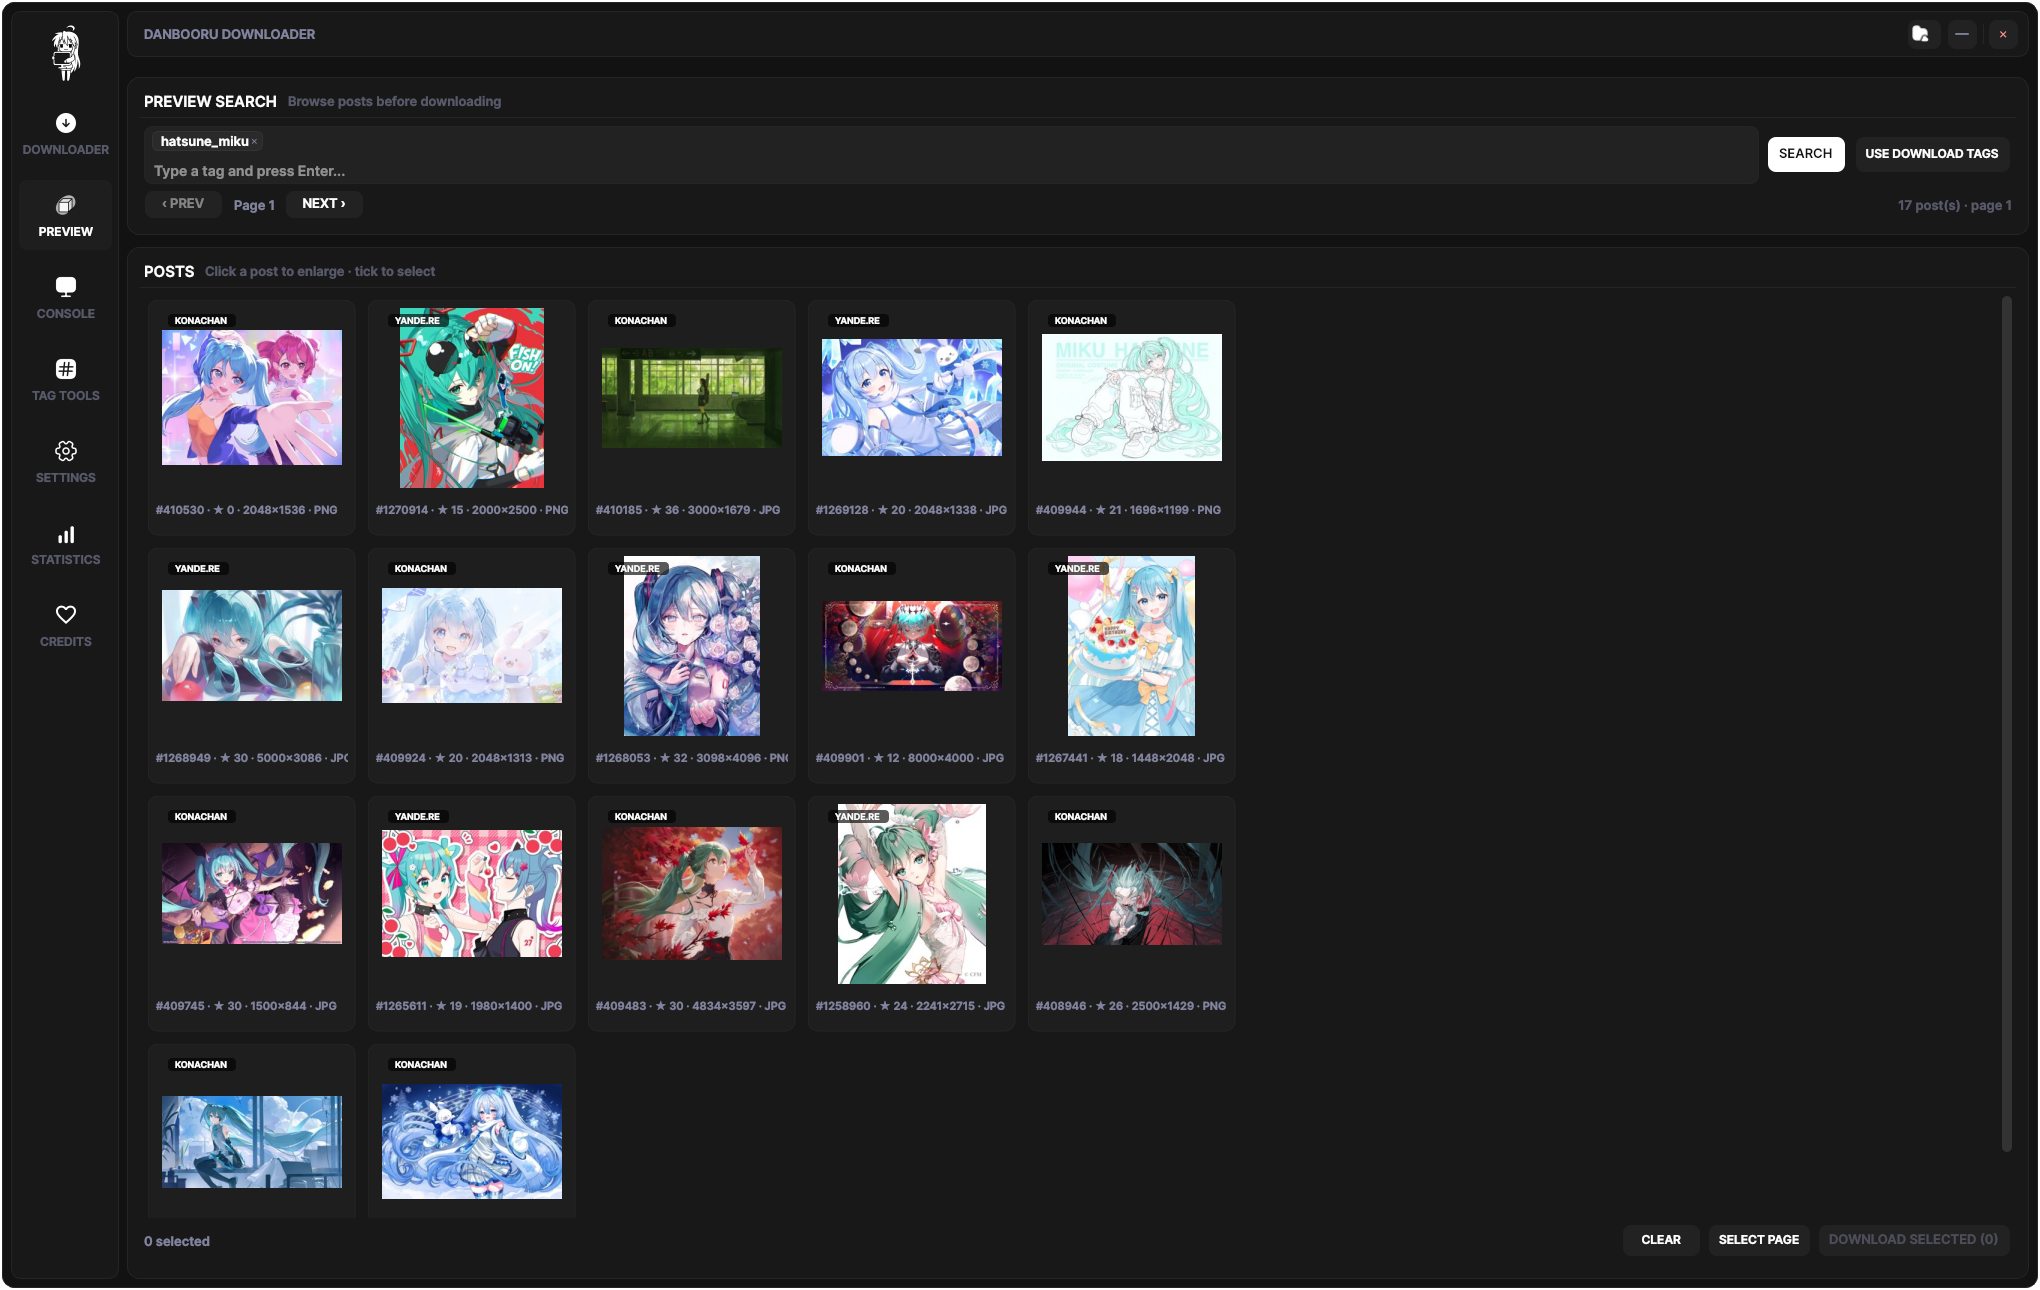
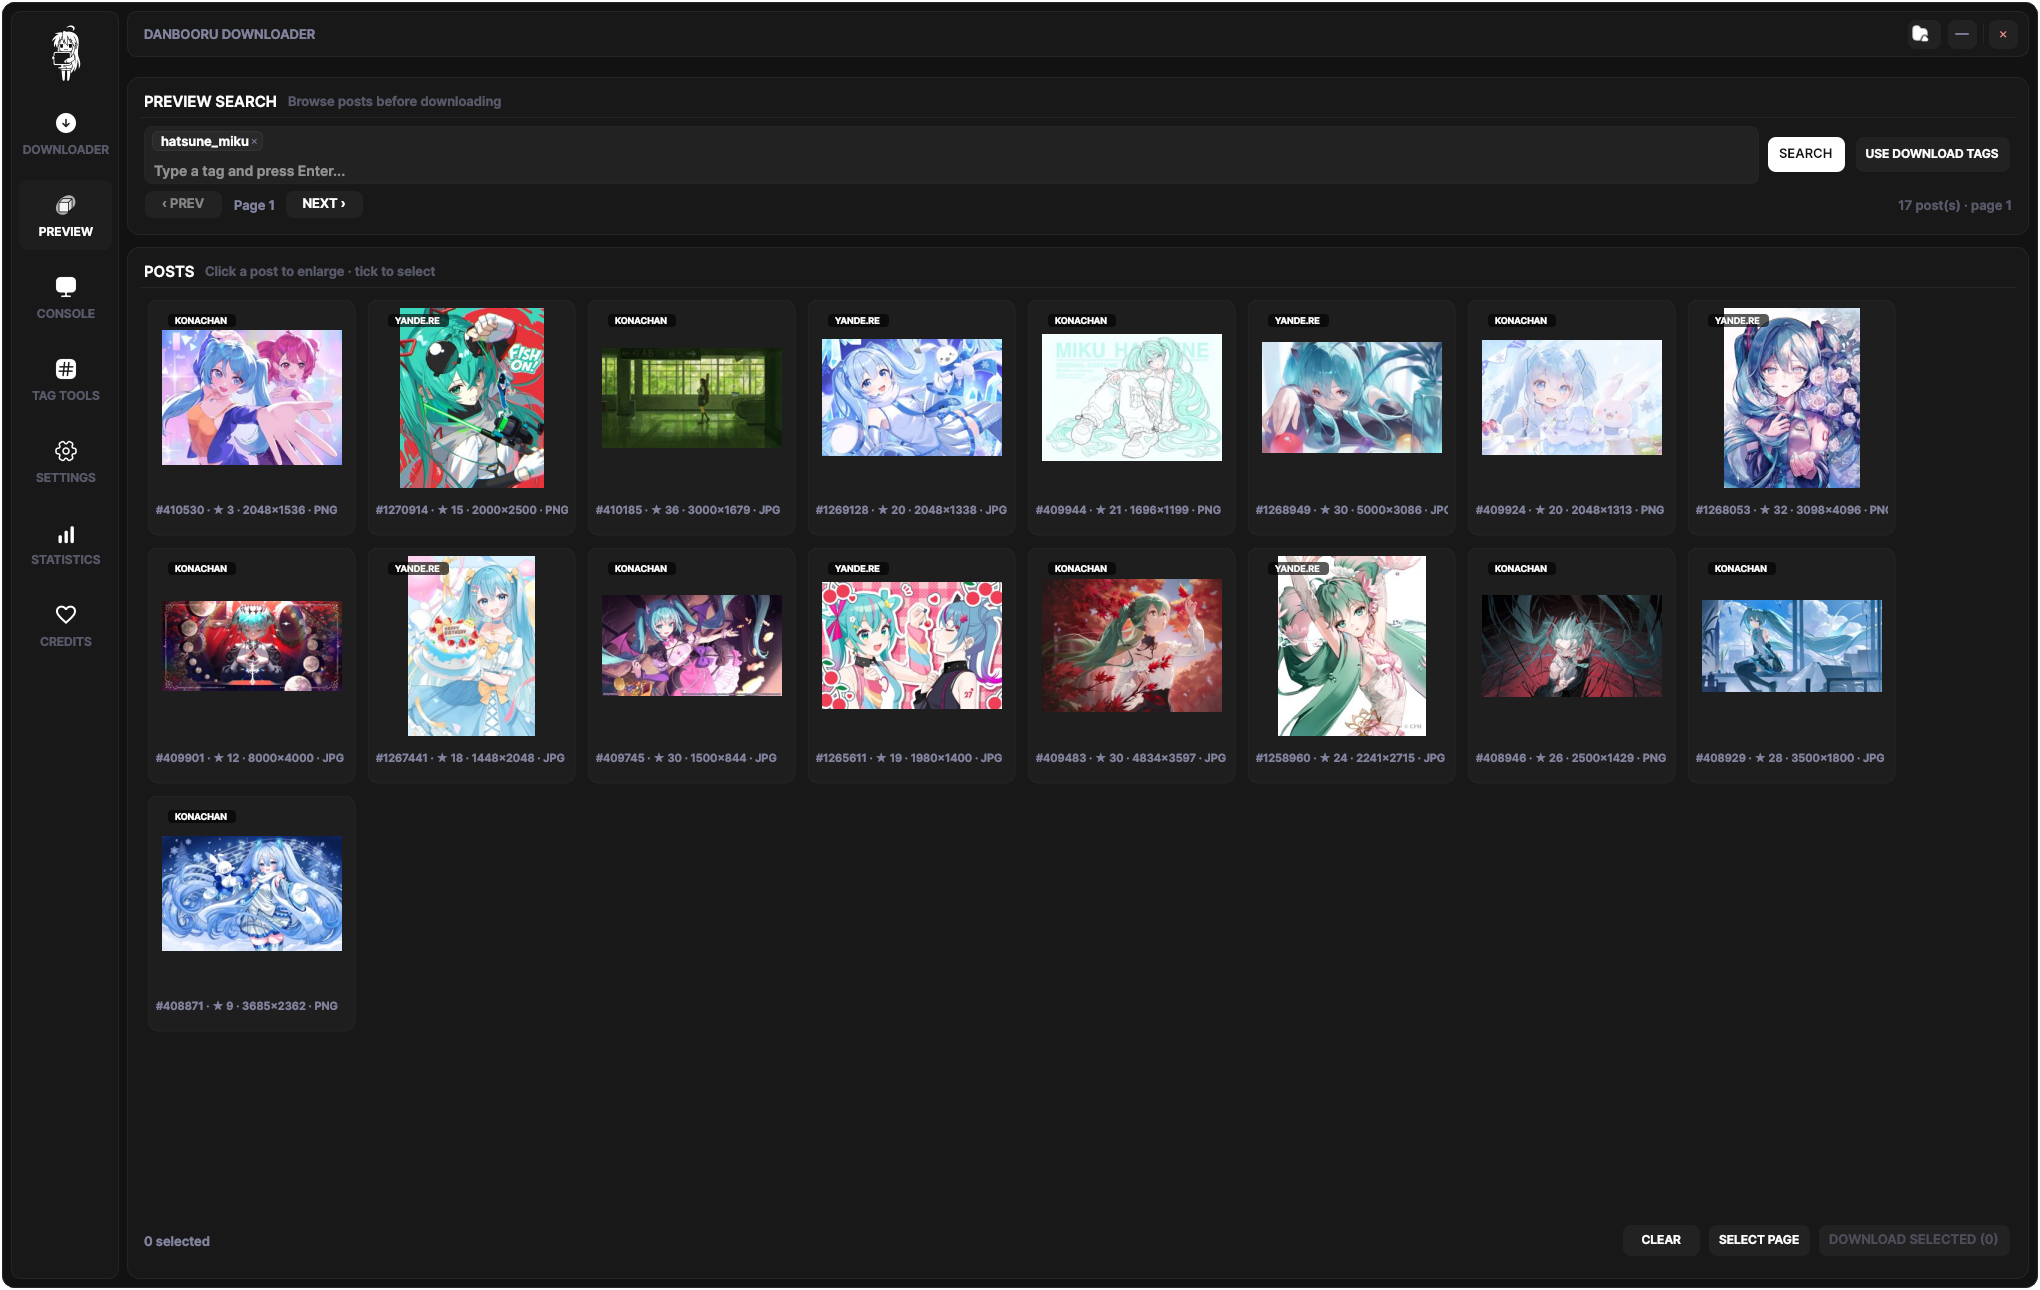
Fill preview grid width and auto-disable failed sources

diff --git a/Src/gui_qt.py b/Src/gui_qt.py
@@ -796,6 +796,7 @@ class UiBridge(QtCore.QObject):
     update_downloaded = Signal(str)
     update_failed = Signal(str)
     gelbooru_test = Signal(bool, str)
+    source_failed = Signal(str, str, str)
 
 
 
@@ -1313,10 +1314,12 @@ class DanbooruDownloaderApp(QtWidgets.QWidget):
         b.update_downloaded.connect(self._on_update_downloaded)
         b.update_failed.connect(self._on_update_failed)
         b.gelbooru_test.connect(self._on_gelbooru_test)
+        b.source_failed.connect(self._on_source_failed)
 
     def wire_config_callbacks(self):
         config.ON_PREVIEW_CALLBACK = self.on_image_preview_callback
         config.ON_PROGRESS_CALLBACK = self.on_progress
+        config.ON_SOURCE_FAILURE_CALLBACK = self.on_source_failure
 
 
     def _enable_drag(self, widget: QtWidgets.QWidget):
@@ -1324,6 +1327,11 @@ class DanbooruDownloaderApp(QtWidgets.QWidget):
         widget._is_drag_zone = True
 
     def eventFilter(self, obj, ev):
+        if hasattr(self, "preview_scroll") and \
+                obj is self.preview_scroll.viewport() and \
+                ev.type() == QtCore.QEvent.Resize:
+            self._resize_grid_holder()
+            return False
         if getattr(obj, "_is_drag_zone", False):
             if ev.type() == QtCore.QEvent.MouseButtonPress and \
                     ev.button() in (Qt.LeftButton, Qt.RightButton):
@@ -1703,7 +1711,9 @@ class DanbooruDownloaderApp(QtWidgets.QWidget):
     def _page_preview(self, wrap):
         page = QtWidgets.QWidget()
         page.setStyleSheet("background: transparent;")
-        wrap.layout_box().addWidget(page)
+        page.setSizePolicy(QtWidgets.QSizePolicy.Policy.Expanding,
+                           QtWidgets.QSizePolicy.Policy.Expanding)
+        wrap.layout_box().addWidget(page, 1)
         col = QtWidgets.QVBoxLayout(page)
         col.setContentsMargins(0, 0, 0, 0)
         col.setSpacing(12)
@@ -1756,7 +1766,10 @@ class DanbooruDownloaderApp(QtWidgets.QWidget):
         nh.addWidget(self.lbl_preview_status, 1)
         search_card.body.addWidget(nav)
 
-        grid_card = Card("Posts", "Click a post to enlarge · tick to select")
+        grid_card = Card("Posts", "Click a post to enlarge · tick to select",
+                         fill=True)
+        grid_card.setSizePolicy(QtWidgets.QSizePolicy.Policy.Expanding,
+                                QtWidgets.QSizePolicy.Policy.Expanding)
         col.addWidget(grid_card, 1)
         self.preview_scroll = QtWidgets.QScrollArea()
         self.preview_scroll.setWidgetResizable(True)
@@ -1764,21 +1777,24 @@ class DanbooruDownloaderApp(QtWidgets.QWidget):
         self.preview_scroll.setStyleSheet(_scroll_style())
         self._grid_holder = QtWidgets.QWidget()
         self._grid_holder.setStyleSheet("background: transparent;")
-        self.preview_grid = QtWidgets.QGridLayout(self._grid_holder)
-        self.preview_grid.setContentsMargins(4, 4, 8, 8)
-        self.preview_grid.setSpacing(12)
-        self.preview_grid.setAlignment(Qt.AlignTop)
-        for cx in range(5):
-            self.preview_grid.setColumnStretch(cx, 1)
-        self.preview_scroll.setWidget(self._grid_holder)
-        grid_card.body.addWidget(self.preview_scroll, 1)
+        holder_layout = QtWidgets.QVBoxLayout(self._grid_holder)
+        holder_layout.setContentsMargins(4, 4, 8, 8)
+        holder_layout.setSpacing(0)
         self.preview_empty_label = QtWidgets.QLabel(
             "No posts loaded yet.\nEnter tags and press SEARCH.")
         self.preview_empty_label.setAlignment(Qt.AlignCenter)
         self.preview_empty_label.setFont(F(12))
         self.preview_empty_label.setWordWrap(True)
         self.preview_empty_label.setStyleSheet(f"color: {COLOR_TEXT_INACTIVE};")
-        self.preview_grid.addWidget(self.preview_empty_label, 0, 0, 1, 5)
+        holder_layout.addWidget(self.preview_empty_label, 0,
+                                Qt.AlignHCenter | Qt.AlignTop)
+        self._cards_holder = QtWidgets.QWidget()
+        self._cards_holder.setStyleSheet("background: transparent;")
+        self.preview_grid = FlowLayout(self._cards_holder, spacing=12)
+        holder_layout.addWidget(self._cards_holder, 1)
+        self.preview_scroll.setWidget(self._grid_holder)
+        self.preview_scroll.viewport().installEventFilter(self)
+        grid_card.body.addWidget(self.preview_scroll, 1)
 
         prow = QtWidgets.QFrame()
         prow.setStyleSheet("background: transparent;")
@@ -3467,6 +3483,34 @@ class DanbooruDownloaderApp(QtWidgets.QWidget):
         if not self._closing:
             self.bridge.progress.emit(total_downloaded, total_queue)
 
+    def on_source_failure(self, key, kind, message):
+        if not self._closing:
+            self.bridge.source_failed.emit(str(key), str(kind), str(message))
+
+    def _on_source_failed(self, key, kind, message):
+        switch = getattr(self, "source_switches", {}).get(key)
+        if switch is None or not switch.isChecked():
+            return
+        if kind == "rate":
+            self.show_toast(
+                sites.site_name(key),
+                "Rate limited. Try again later.",
+                kind="warning")
+            return
+        switch.setChecked(False)
+        try:
+            config.SOURCES[key] = False
+        except Exception:
+            pass
+        self._update_source_statuses()
+        if kind == "auth":
+            text = "Needs a valid API key. Turned it off."
+        elif kind == "down":
+            text = "Is unreachable. Turned it off."
+        else:
+            text = "Failed. Turned it off."
+        self.show_toast(sites.site_name(key), text, kind="warning")
+
     def on_image_preview_callback(self, filepath):
         if not self._closing:
             self.bridge.live_preview.emit(filepath)
@@ -3887,9 +3931,8 @@ class DanbooruDownloaderApp(QtWidgets.QWidget):
         while self.preview_grid.count():
             item = self.preview_grid.takeAt(0)
             w = item.widget() if item else None
-            if w is not None and w is not self.preview_empty_label:
+            if w is not None:
                 w.deleteLater()
-        self.preview_empty_label.hide()
         self._preview_cards.clear()
         self._preview_posts = []
 
@@ -3898,7 +3941,11 @@ class DanbooruDownloaderApp(QtWidgets.QWidget):
         if message is not None:
             self.preview_empty_label.setText(message)
             self.preview_empty_label.show()
-            self.preview_grid.addWidget(self.preview_empty_label, 0, 0, 1, 5)
+            self._cards_holder.hide()
+        else:
+            self.preview_empty_label.hide()
+            self._cards_holder.show()
+        self._resize_grid_holder()
 
     def _populate_grid(self, posts):
         self._grid_clear_widgets()
@@ -3906,20 +3953,32 @@ class DanbooruDownloaderApp(QtWidgets.QWidget):
         if not self._preview_posts:
             self.preview_empty_label.setText("No posts found.")
             self.preview_empty_label.show()
-            self.preview_grid.addWidget(self.preview_empty_label, 0, 0, 1, 5)
+            self._cards_holder.hide()
+            self._resize_grid_holder()
             return
-        for index, post in enumerate(posts):
-            row, colx = divmod(index, 5)
+        self.preview_empty_label.hide()
+        self._cards_holder.show()
+        for post in posts:
             card = PreviewPostCard(post)
             card.open_requested.connect(self._open_overlay)
             card.toggle_requested.connect(self.toggle_preview_selection)
-            self.preview_grid.addWidget(card, row, colx)
+            self.preview_grid.addWidget(card)
             key = post_key(post)
             self._preview_cards[key] = card
             if key in self._selected_posts:
                 card.set_selected(True)
             self._load_thumbnail(post)
-        self._grid_holder.adjustSize()
+        self._resize_grid_holder()
+
+    def _resize_grid_holder(self):
+        if not hasattr(self, "preview_grid") or not hasattr(self, "_cards_holder"):
+            return
+        width = self._cards_holder.width()
+        if width <= 1:
+            width = max(1, self.preview_scroll.viewport().width() - 12)
+        height = self.preview_grid.heightForWidth(width)
+        self._cards_holder.setMinimumHeight(max(0, height))
+        self._grid_holder.updateGeometry()
 
     def _load_thumbnail(self, post):
         key = post_key(post)

diff --git a/Src/sites.py b/Src/sites.py
@@ -733,6 +733,37 @@ def test_gelbooru(api_key, user_id):
     return True, "Gelbooru API responded, but returned no posts."
 
 
+def _failure_kind(exc):
+    status = getattr(getattr(exc, "response", None), "status_code", None)
+    if status in (401, 403):
+        return "auth"
+    if status == 429:
+        return "rate"
+    if status and status >= 500:
+        return "down"
+    name = type(exc).__name__.lower()
+    text = str(exc).lower()
+    if "api key" in text or "api-key" in text or "credentials" in text \
+            or "unauthorized" in text or "rejected" in text:
+        return "auth"
+    if "connection" in name or "timeout" in name or "resolve" in name:
+        return "down"
+    if "connection" in text or "timed out" in text or "timeout" in text:
+        return "down"
+    return "error"
+
+
+def _notify_source_failure(key, kind, message):
+    import downloader
+    callback = getattr(downloader.config, "ON_SOURCE_FAILURE_CALLBACK", None)
+    if callback is None:
+        return
+    try:
+        callback(key, kind, message)
+    except Exception:
+        pass
+
+
 def _short_error(exc):
     status = getattr(getattr(exc, "response", None), "status_code", None)
     if status:
@@ -884,8 +915,9 @@ def _fetch_combined_uncached(tags, limit, page, session, reset, keys):
             except Exception as exc:
                 raw_counts[key] = 0
                 results[key] = []
-                notes.append(f"{SOURCE_INFO[key]['name']}: "
-                             f"{_short_error(exc)}")
+                message = _short_error(exc)
+                notes.append(f"{SOURCE_INFO[key]['name']}: {message}")
+                _notify_source_failure(key, _failure_kind(exc), message)
 
     if ok_count == 0:
         raise RuntimeError("; ".join(notes) or "All sources failed.")

diff --git a/Src/downloader.py b/Src/downloader.py
@@ -316,6 +316,7 @@ class Config:
     ON_PREVIEW_CALLBACK = None
     ON_PROGRESS_CALLBACK = None
     ON_STATUS_CALLBACK = None
+    ON_SOURCE_FAILURE_CALLBACK = None
 
 config = Config()
 
